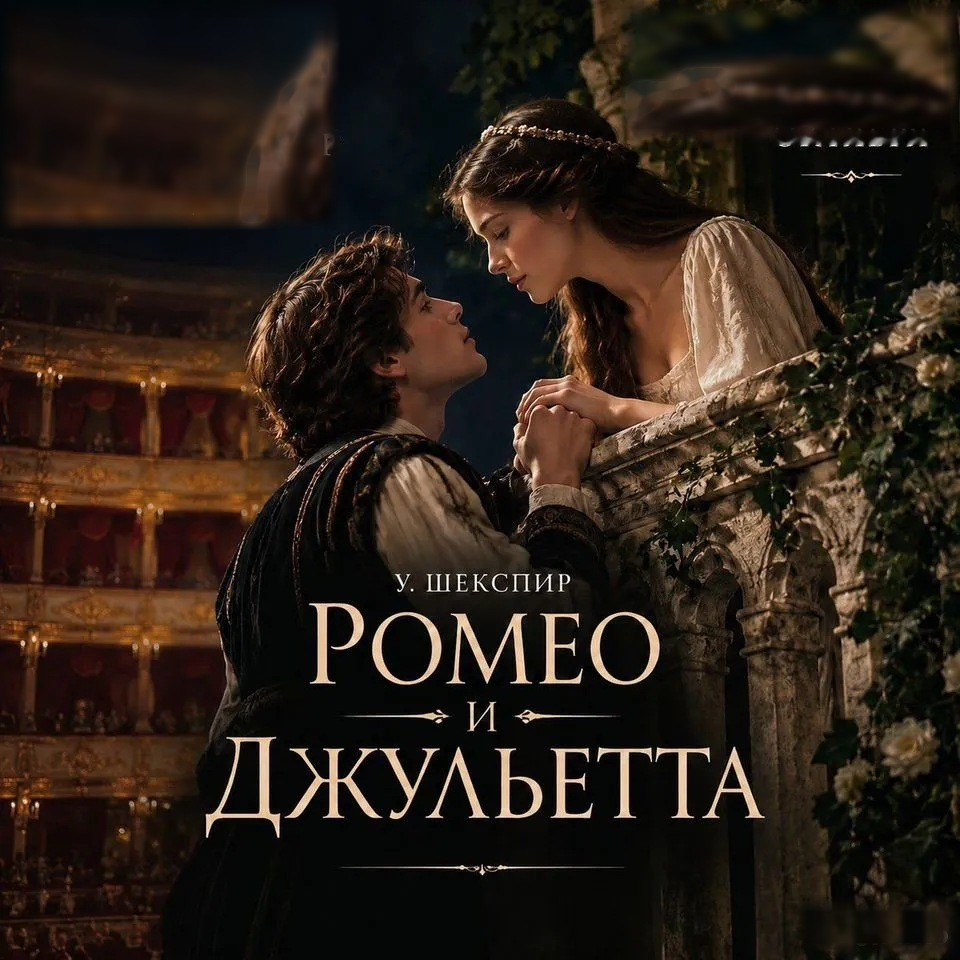
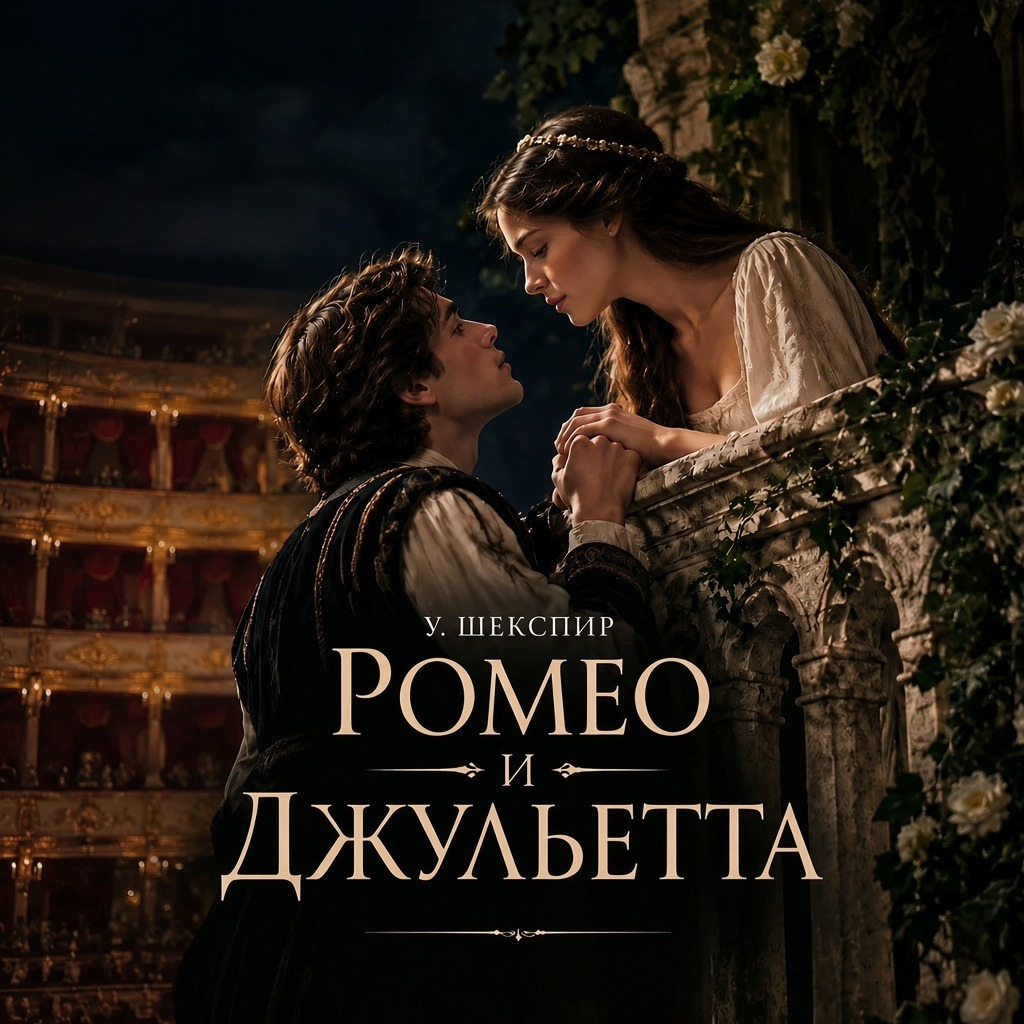
fix(bolshoi): чистая обложка Ромео без следов логотипов
Новый постер без Большого/Авито/даты; URL обновлён в seed и на проде.

diff --git a/backend/scripts/seed-bolshoi-opera-events.js b/backend/scripts/seed-bolshoi-opera-events.js
@@ -31,9 +31,9 @@ const EVENTS = [
   { id: 'karmen-2026-10-26', title: 'Кармен', venue: 'Большой театр — Историческая сцена', address: 'Театральная пл., 1, Москва', iso: '2026-10-26T16:00:00.000Z', cardSubtitle: 'пн 26 октября · 19:00 · 12+', poster: '/uploads/images/bolshoi-carmen-1792582486308.jpg', prices: [90000, 80000, 70000, 60000, 45000, 650000, 500000, 180000] },
   { id: 'karmen-2026-10-27', title: 'Кармен', venue: 'Большой театр — Историческая сцена', address: 'Театральная пл., 1, Москва', iso: '2026-10-27T16:00:00.000Z', cardSubtitle: 'вт 27 октября · 19:00 · 12+', poster: '/uploads/images/bolshoi-carmen-1792582486308.jpg', prices: [90000, 80000, 70000, 60000, 45000, 650000, 500000, 180000] },
   /** Балет; цены как у Кармен (премиум Историческая), пока нет отдельного прайса. */
-  { id: 'romeo-dzhuletta-2026-10-29', title: 'Ромео и Джульетта', venue: 'Большой театр — Историческая сцена', address: 'Театральная пл., 1, Москва', iso: '2026-10-29T16:00:00.000Z', cardSubtitle: 'чт 29 октября · 19:00 · 6+', genre: 'Балет', age: '6+', poster: '/uploads/images/bolshoi-romeo-1792582486308.jpg', prices: [90000, 80000, 70000, 60000, 45000, 650000, 500000, 180000] },
-  { id: 'romeo-dzhuletta-2026-10-30', title: 'Ромео и Джульетта', venue: 'Большой театр — Историческая сцена', address: 'Театральная пл., 1, Москва', iso: '2026-10-30T16:00:00.000Z', cardSubtitle: 'пт 30 октября · 19:00 · 6+', genre: 'Балет', age: '6+', poster: '/uploads/images/bolshoi-romeo-1792582486308.jpg', prices: [90000, 80000, 70000, 60000, 45000, 650000, 500000, 180000] },
-  { id: 'romeo-dzhuletta-2026-10-31', title: 'Ромео и Джульетта', venue: 'Большой театр — Историческая сцена', address: 'Театральная пл., 1, Москва', iso: '2026-10-31T16:00:00.000Z', cardSubtitle: 'сб 31 октября · 19:00 · 6+', genre: 'Балет', age: '6+', poster: '/uploads/images/bolshoi-romeo-1792582486308.jpg', prices: [90000, 80000, 70000, 60000, 45000, 650000, 500000, 180000] },
+  { id: 'romeo-dzhuletta-2026-10-29', title: 'Ромео и Джульетта', venue: 'Большой театр — Историческая сцена', address: 'Театральная пл., 1, Москва', iso: '2026-10-29T16:00:00.000Z', cardSubtitle: 'чт 29 октября · 19:00 · 6+', genre: 'Балет', age: '6+', poster: '/uploads/images/bolshoi-romeo-1792582854626.jpg', prices: [90000, 80000, 70000, 60000, 45000, 650000, 500000, 180000] },
+  { id: 'romeo-dzhuletta-2026-10-30', title: 'Ромео и Джульетта', venue: 'Большой театр — Историческая сцена', address: 'Театральная пл., 1, Москва', iso: '2026-10-30T16:00:00.000Z', cardSubtitle: 'пт 30 октября · 19:00 · 6+', genre: 'Балет', age: '6+', poster: '/uploads/images/bolshoi-romeo-1792582854626.jpg', prices: [90000, 80000, 70000, 60000, 45000, 650000, 500000, 180000] },
+  { id: 'romeo-dzhuletta-2026-10-31', title: 'Ромео и Джульетта', venue: 'Большой театр — Историческая сцена', address: 'Театральная пл., 1, Москва', iso: '2026-10-31T16:00:00.000Z', cardSubtitle: 'сб 31 октября · 19:00 · 6+', genre: 'Балет', age: '6+', poster: '/uploads/images/bolshoi-romeo-1792582854626.jpg', prices: [90000, 80000, 70000, 60000, 45000, 650000, 500000, 180000] },
 ];
 
 const NEW_STAGE_ID = process.env.BOLSHOI_NEW_STAGE_EXTERNAL_ID?.trim() || 'bolshoi-new-stage';
